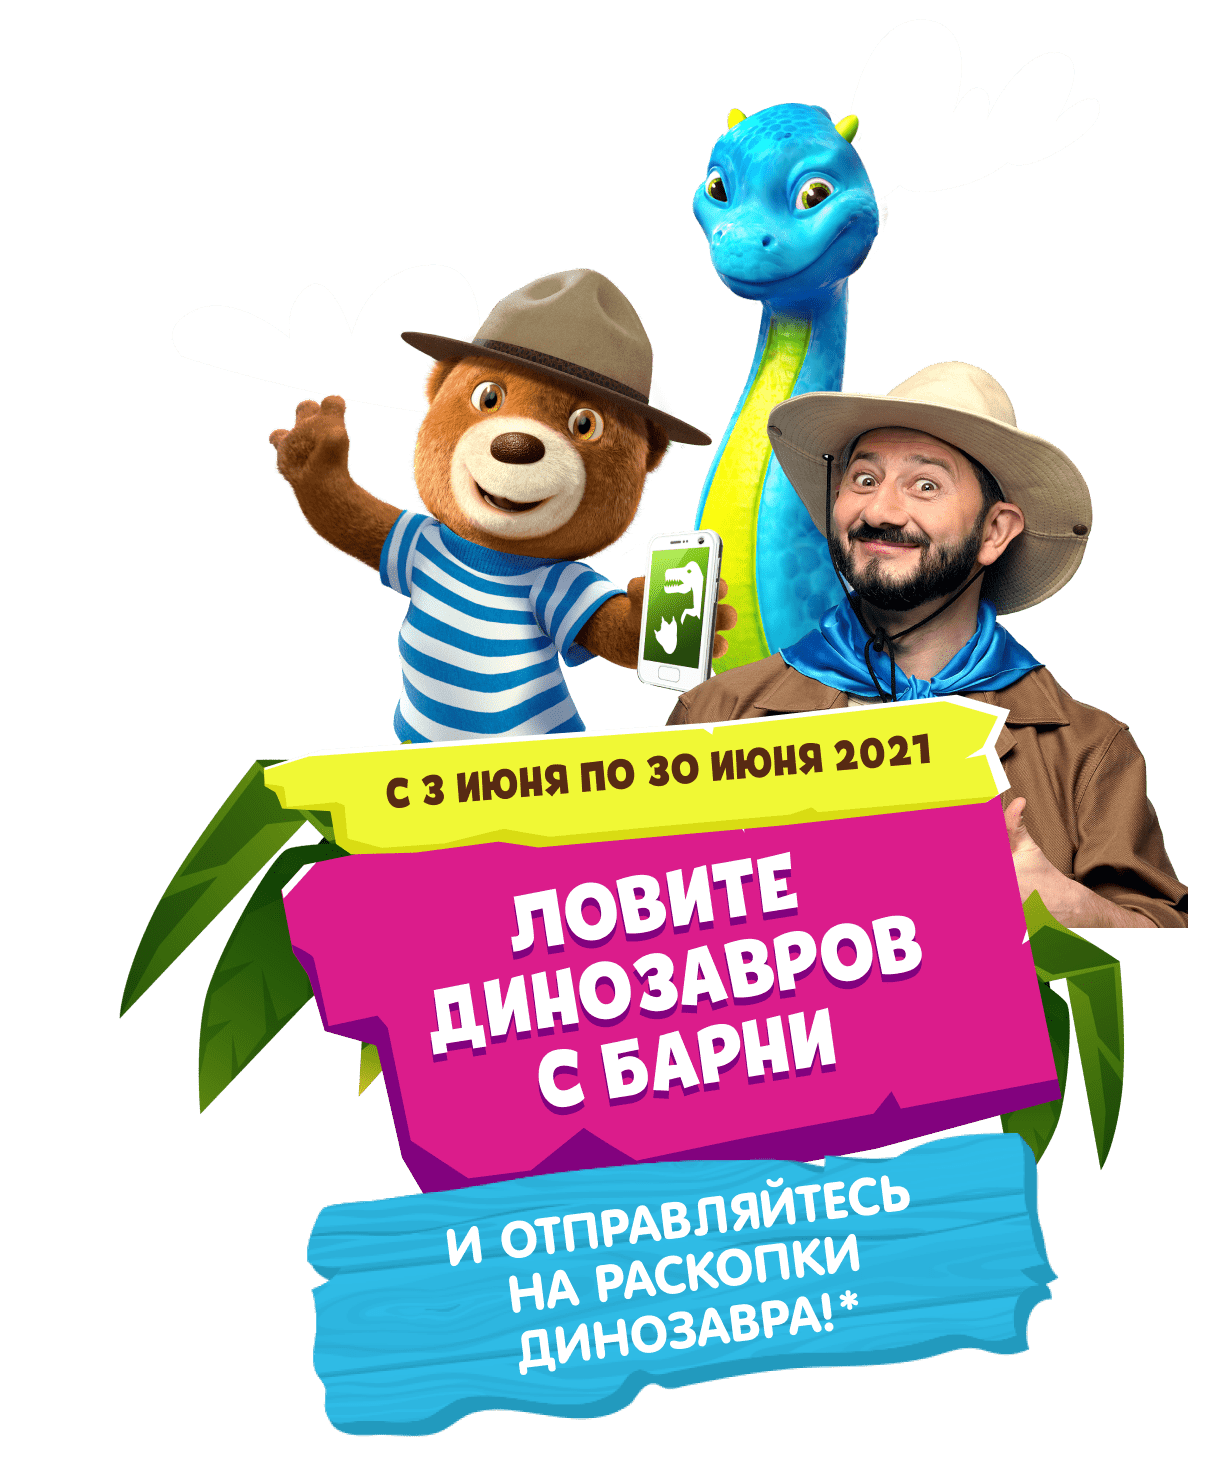
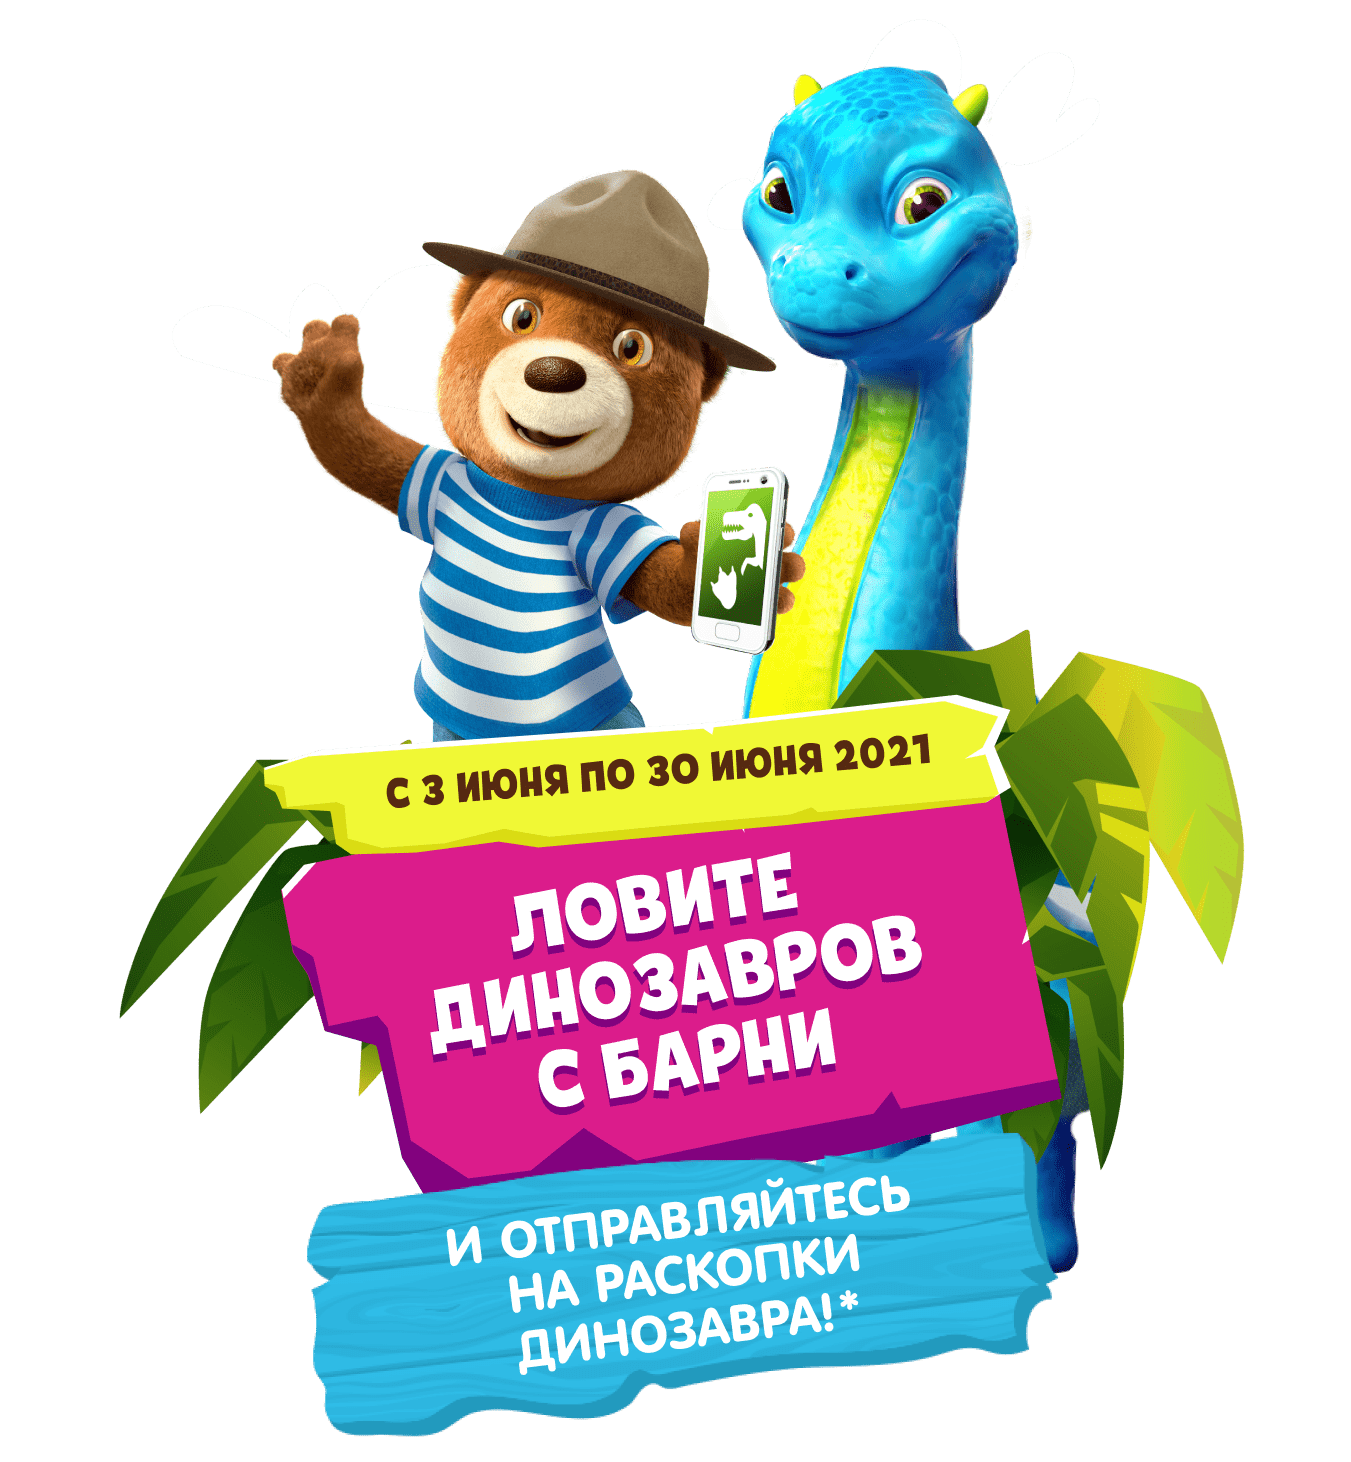
upd kv

diff --git a/css/styles.css b/css/styles.css
@@ -4234,8 +4234,8 @@ a.my-dino-ar-title {
     }
 
     .kv {
-        top: -30px;
-        left: -350px;
+        top: -5px;
+        left: -290px;
         right: -300px;
         width: 610px;
         height: 731px;
